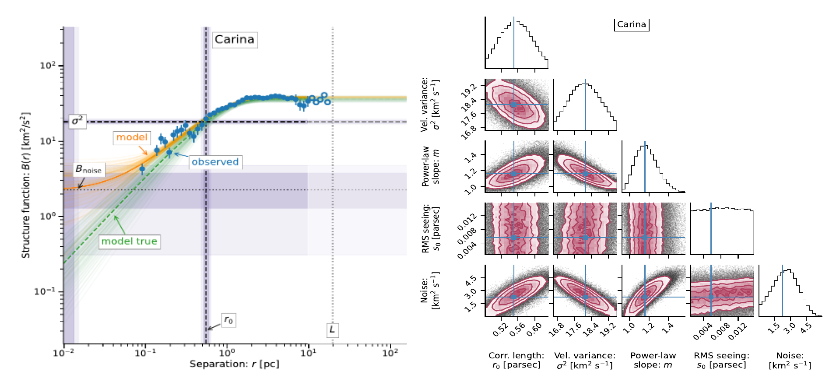
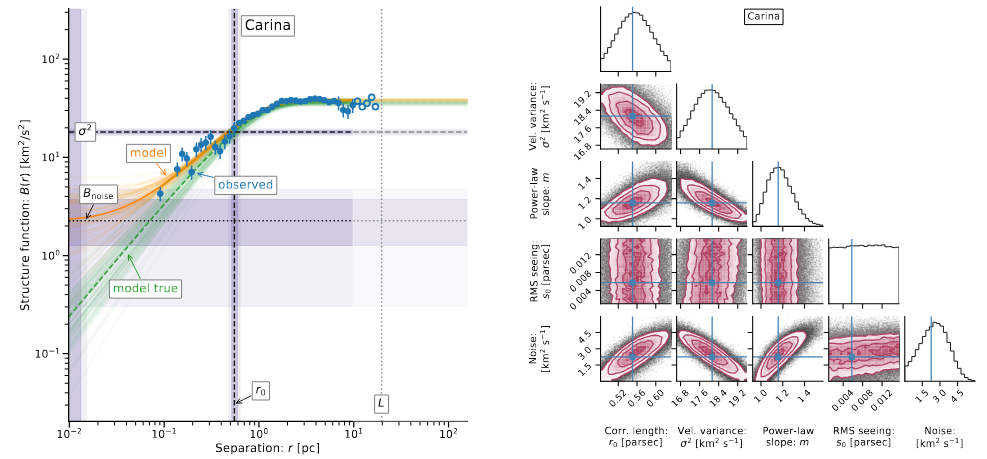
FLAMES paper I update

Changed region(s): [[0.0, 0.0, 0.9952, 0.9948], [0.7464, 0.0, 0.8086, 0.0933]]

diff --git a/H II regions/NGC 3375/NGC 3375.md b/H II regions/NGC 3375/NGC 3375.md
@@ -17,6 +17,6 @@
 
 ## Ha
 
-<img src="../../_To_publish/Turbulent Multiple Lines/Figs/Carina/H maps.png" alt="Image one" width="800">
+<img src="Figs/FLAMES H VR.png" alt="Image one" width="400">
 
 <img src="Figs/FLAMES H SF.png" alt="Image one" width="800">
